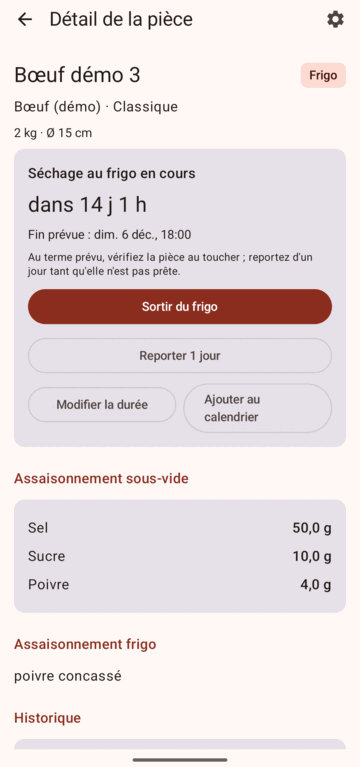
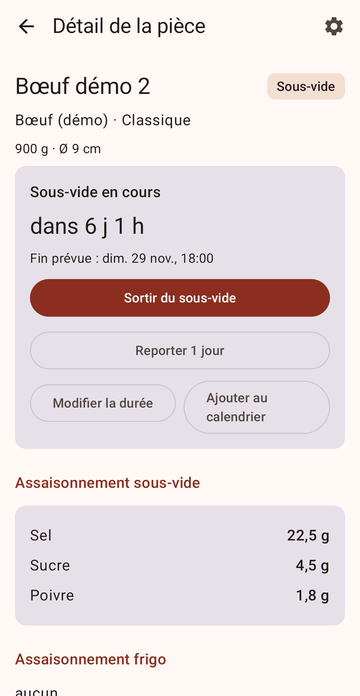
Remove the Calculateur tab and the standalone calculator (#10) (#20)
* docs: intent for removing the Calculateur tab and standalone calculator (#10)

* docs: intent #10 follows the merge of #9

* docs: remove the standalone calculator from requirements and design (#10)

* feat: remove the Calculateur tab and the standalone calculator (#10)

Drops the bottom-bar tab, route, CalculatorScreen and view model (R5 removed).
DosesCard moves to ui/pieces; R4 stays covered on the new-piece screen.

* test: R4 new-piece doses test needs a diameter (#10)

* docs: re-capture README screenshots without the Calculateur tab (#10)

diff --git a/app/src/main/java/me/bataillec/meatmelater/MainActivity.kt b/app/src/main/java/me/bataillec/meatmelater/MainActivity.kt
@@ -12,7 +12,6 @@ import androidx.compose.foundation.layout.padding
 import androidx.compose.material.icons.Icons
 import androidx.compose.material.icons.automirrored.filled.ArrowBack
 import androidx.compose.material.icons.automirrored.filled.MenuBook
-import androidx.compose.material.icons.filled.Calculate
 import androidx.compose.material.icons.filled.Home
 import androidx.compose.material.icons.filled.Insights
 import androidx.compose.material.icons.filled.Settings
@@ -50,7 +49,6 @@ import androidx.navigation.navArgument
 import kotlinx.coroutines.launch
 import me.bataillec.meatmelater.domain.AppSettings
 import me.bataillec.meatmelater.platform.BatteryOnboardingDialog
-import me.bataillec.meatmelater.ui.calculator.CalculatorScreen
 import me.bataillec.meatmelater.ui.pieces.NewPieceScreen
 import me.bataillec.meatmelater.ui.pieces.PieceDetailScreen
 import me.bataillec.meatmelater.ui.pieces.PiecesScreen
@@ -126,7 +124,6 @@ private object Routes {
     const val PIECES = "pieces"
     const val NEW_PIECE = "pieces/new"
     const val PIECE = "pieces/{id}"
-    const val CALCULATOR = "calculator"
     const val RECIPES = "recipes"
     const val RECIPE_EDIT = "recipes/edit/{id}"
     const val STATS = "stats"
@@ -146,7 +143,6 @@ private data class TopLevel(
 private val TOP_LEVEL =
     listOf(
         TopLevel(Routes.PIECES, R.string.nav_pieces, Icons.Filled.Home),
-        TopLevel("calculator", R.string.nav_calculator, Icons.Filled.Calculate),
         TopLevel(Routes.RECIPES, R.string.nav_recipes, Icons.AutoMirrored.Filled.MenuBook),
         TopLevel(Routes.STATS, R.string.nav_stats, Icons.Filled.Insights),
     )
@@ -160,12 +156,7 @@ private fun AppRoot(
     val nav = rememberNavController()
     val backStack by nav.currentBackStackEntryAsState()
     val route = backStack?.destination?.route.orEmpty()
-    val topRoute =
-        TOP_LEVEL.firstOrNull { route.startsWith(it.route) && !route.startsWith(Routes.NEW_PIECE) }?.takeIf {
-            route ==
-                it.route ||
-                route.startsWith("calculator")
-        }
+    val topRoute = TOP_LEVEL.firstOrNull { it.route == route }
 
     LaunchedEffect(pendingPieceId) {
         if (pendingPieceId != null) {
@@ -233,7 +224,6 @@ private fun AppRoot(
                     onGone = { nav.popBackStack(Routes.PIECES, inclusive = false) },
                 )
             }
-            composable(Routes.CALCULATOR) { CalculatorScreen() }
             composable(Routes.RECIPES) { RecipesScreen(onEdit = { nav.navigate(Routes.recipeEdit(it)) }) }
             composable(Routes.RECIPE_EDIT, arguments = listOf(navArgument("id") { type = NavType.LongType })) { entry ->
                 RecipeEditScreen(entry.arguments!!.getLong("id"), onDone = { nav.popBackStack() })
@@ -259,7 +249,6 @@ private fun titleFor(route: String): Int =
     when {
         route.startsWith("pieces/new") -> R.string.new_piece
         route.startsWith("pieces/") -> R.string.piece_detail
-        route.startsWith("calculator") -> R.string.nav_calculator
         route.startsWith("recipes/edit") -> R.string.recipe_edit
         route.startsWith("recipes") -> R.string.nav_recipes
         route.startsWith("stats") -> R.string.nav_stats

diff --git a/app/src/test/java/me/bataillec/meatmelater/ui/UiFlowsTest.kt b/app/src/test/java/me/bataillec/meatmelater/ui/UiFlowsTest.kt
@@ -1,7 +1,6 @@
 package me.bataillec.meatmelater.ui
 
 import androidx.compose.ui.test.ExperimentalTestApi
-import androidx.compose.ui.test.assertCountEquals
 import androidx.compose.ui.test.assertIsDisplayed
 import androidx.compose.ui.test.assertIsNotEnabled
 import androidx.compose.ui.test.getBoundsInRoot
@@ -26,7 +25,6 @@ import me.bataillec.meatmelater.R
 import me.bataillec.meatmelater.domain.AccentColor
 import me.bataillec.meatmelater.domain.PieceStatus
 import me.bataillec.meatmelater.domain.ThemeMode
-import me.bataillec.meatmelater.ui.calculator.CalculatorScreen
 import me.bataillec.meatmelater.ui.pieces.NewPieceScreen
 import me.bataillec.meatmelater.ui.pieces.PieceDetailScreen
 import me.bataillec.meatmelater.ui.pieces.PiecesScreen
@@ -148,14 +146,6 @@ class UiFlowsTest : AppTestBase() {
         awaitUi { created != null }
         val run = runBlocking { container.pieces.getSummary(created!!) }!!.openRun!!
         assertTrue(run.plannedEndAt > clock.millis + 9 * 86_400_000L)
-    }
-
-    @Test
-    fun `R5 piece detail has no open in calculator button`() {
-        val id = createPiece(seedRecipe())
-        show { PieceDetailScreen(id, onGone = {}) }
-        waitForText(string(R.string.leave_vacuum))
-        compose.onAllNodesWithText("Ouvrir dans le calculateur").assertCountEquals(0)
     }
 
     @Ignore(DIALOG_IDLE)
@@ -360,20 +350,23 @@ class UiFlowsTest : AppTestBase() {
     }
 
     @Test
-    fun `R4 R5 calculator computes doses for the selected recipe`() {
+    fun `R4 new piece shows the doses for the typed weight and the selected recipe`() {
+        seedMeat()
         seedRecipe()
-        show { CalculatorScreen() }
+        show { NewPieceScreen(onCreated = {}) }
         waitForText("Classique")
         compose.onNodeWithText(string(R.string.weight)).performTextInput("1,25")
+        compose.onNodeWithText(string(R.string.diameter)).performTextInput("12")
         waitForText(string(R.string.grams_format, "31,3"))
         compose.onNodeWithText(string(R.string.grams_format, "2,5")).assertIsDisplayed() // pepper 2 g/kg * 1.25 kg
     }
 
     @Test
-    fun `R4 calculator with empty weight shows the hint and no crash`() {
+    fun `R4 new piece with empty weight shows the hint and no crash`() {
+        seedMeat()
         seedRecipe()
-        show { CalculatorScreen() }
-        waitForText(string(R.string.calculator_hint))
+        show { NewPieceScreen(onCreated = {}) }
+        waitForText(string(R.string.doses_hint))
     }
 
     private companion object {

diff --git a/app/src/main/java/me/bataillec/meatmelater/ui/pieces/DosesCard.kt b/app/src/main/java/me/bataillec/meatmelater/ui/pieces/DosesCard.kt
@@ -1,0 +1,52 @@
+package me.bataillec.meatmelater.ui.pieces
+
+import androidx.compose.foundation.layout.Column
+import androidx.compose.foundation.layout.fillMaxWidth
+import androidx.compose.foundation.layout.padding
+import androidx.compose.material3.Card
+import androidx.compose.material3.MaterialTheme
+import androidx.compose.material3.Text
+import androidx.compose.runtime.Composable
+import androidx.compose.ui.Modifier
+import androidx.compose.ui.res.stringResource
+import androidx.compose.ui.unit.dp
+import me.bataillec.meatmelater.R
+import me.bataillec.meatmelater.domain.Doses
+import me.bataillec.meatmelater.ui.common.DoseLine
+import me.bataillec.meatmelater.ui.common.RecipeOption
+import me.bataillec.meatmelater.ui.common.fr
+import me.bataillec.meatmelater.ui.common.frFixed
+
+/** R4: doses (g of salt, sugar, pepper) for the weight and recipe chosen on the new-piece screen. */
+@Composable
+fun DosesCard(
+    doses: Doses?,
+    option: RecipeOption?,
+) {
+    Card(Modifier.fillMaxWidth()) {
+        Column(Modifier.padding(16.dp)) {
+            if (doses == null) {
+                Text(stringResource(R.string.doses_hint), style = MaterialTheme.typography.bodyMedium)
+            } else {
+                DoseLine(stringResource(R.string.salt), stringResource(R.string.grams_format, doses.saltG.frFixed()))
+                DoseLine(stringResource(R.string.sugar), stringResource(R.string.grams_format, doses.sugarG.frFixed()))
+                DoseLine(
+                    stringResource(R.string.pepper),
+                    stringResource(R.string.grams_format, doses.pepperG.frFixed()),
+                )
+                option?.let {
+                    Text(
+                        stringResource(
+                            R.string.dose_rates,
+                            it.recipe.saltGPerKg.fr(),
+                            it.recipe.sugarGPerKg.fr(),
+                            it.recipe.pepperGPerKg.fr(),
+                        ),
+                        style = MaterialTheme.typography.bodySmall,
+                        modifier = Modifier.padding(top = 8.dp),
+                    )
+                }
+            }
+        }
+    }
+}

diff --git a/app/src/main/java/me/bataillec/meatmelater/ui/pieces/NewPieceScreen.kt b/app/src/main/java/me/bataillec/meatmelater/ui/pieces/NewPieceScreen.kt
@@ -29,7 +29,6 @@ import me.bataillec.meatmelater.domain.LabelSuggester
 import me.bataillec.meatmelater.domain.PieceFactory
 import me.bataillec.meatmelater.domain.WeightParser
 import me.bataillec.meatmelater.domain.WeightUnit
-import me.bataillec.meatmelater.ui.calculator.DosesCard
 import me.bataillec.meatmelater.ui.common.DecimalField
 import me.bataillec.meatmelater.ui.common.MeatTypePicker
 import me.bataillec.meatmelater.ui.common.RecipePicker
@@ -81,7 +80,7 @@ fun NewPieceScreen(onCreated: (Long) -> Unit) {
         verticalArrangement = Arrangement.spacedBy(12.dp),
     ) {
         if (options.isEmpty()) {
-            Text(stringResource(R.string.calculator_no_recipe), style = MaterialTheme.typography.bodyLarge)
+            Text(stringResource(R.string.no_recipe_hint), style = MaterialTheme.typography.bodyLarge)
         } else {
             RecipePicker(options, option?.recipe?.id, { recipeId = it }, Modifier.fillMaxWidth())
         }

diff --git a/app/src/main/java/me/bataillec/meatmelater/ui/settings/SettingsScreen.kt b/app/src/main/java/me/bataillec/meatmelater/ui/settings/SettingsScreen.kt
@@ -148,7 +148,7 @@ fun SettingsScreen() {
 
         SectionTitle(stringResource(R.string.vacuum_doses))
         if (option == null) {
-            Text(stringResource(R.string.calculator_no_recipe))
+            Text(stringResource(R.string.no_recipe_hint))
         } else {
             RecipePicker(options, option.recipe.id, { recipeId = it }, Modifier.fillMaxWidth())
             RecipeSteppers(option, scope) { updated -> container.recipes.save(updated) }

diff --git a/docs/design.md b/docs/design.md
@@ -73,14 +73,13 @@ VACUUM --finish--> FRIDGE --finish--> DONE
 ## 5. Screens (all French)
 
 1. **Pièces** (home): permission banner, "En retard" section, then running pieces sorted by next deadline; each row = label, the piece's meat/recipe, stage, remaining time. FAB "Nouvelle pièce".
-2. **Nouvelle pièce**: meat type picker (non-archived), recipe picker (names only), weight, diameter → live doses and planned vacuum duration → confirm.
+2. **Nouvelle pièce**: meat type picker (non-archived), recipe picker (names only), weight, diameter → live doses (`DosesCard`, R4) and planned vacuum duration → confirm.
 3. **Détail pièce**: stage-1 doses, stage-2 seasoning (or "aucun"), stage timeline planned vs. actual with postponements and notes, buttons "Sortir du sous-vide / du frigo", "Reporter 1 jour", "Ajouter au calendrier", edit duration, cancel. Leaving the vacuum stage opens a dialog asking for the stage-2 seasoning (prefilled, may be empty).
-4. **Calculateur**: weight + recipe → doses, no piece created. Reached from the bottom bar only: it takes no piece argument (route `calculator`, no `pieceId`) and the piece detail screen has no link to it.
-5. **Recettes**: flat list (no meat grouping); edit form with doses, rule, fridge days (R28: under the divisor and added-days fields, a `bodyMedium` / `onSurfaceVariant` label with the formula and a 6 cm example, built from `StageDurationRule` on the parsed fields; nothing while a field is invalid, a hint when divisor ≤ 0; no fixed height, one `semantics` sentence, not live; the same example string and 6 cm constant are shared with Réglages).
-6. **Statistiques**: averages per recipe/stage, finished pieces.
-7. **Réglages** (R24–R26): four blocks: *Apparence* (Clair / Sombre / OLED / Système), *Dosages au sous-vide* (recipe picker, salt/sugar/pepper g/kg with − / + steppers, note that running pieces keep their doses), *Durée du sous-vide* (divisor, added days, live example with round-up), *Frigo et rappels* (minimum fridge days; reminder time as one row "Heure du rappel" showing `HH:mm`, a single touch target with the spoken label "Heure du rappel, 07:30", opening a Material 3 time picker dialog: 24 h, dial with keyboard toggle, keyboard directly at large font scale, scrollable at 200 % font, title "Choisir l'heure", buttons "Annuler" / "Valider"; "Valider" does one `settings.update` of hour and minute then one `reconcile()`, cancel or dismiss does nothing), and *Types de viande* (add, rename, delete; moved from Recettes). Also permissions status, export/import JSON, about/version.
+4. **Recettes**: flat list (no meat grouping); edit form with doses, rule, fridge days (R28: under the divisor and added-days fields, a `bodyMedium` / `onSurfaceVariant` label with the formula and a 6 cm example, built from `StageDurationRule` on the parsed fields; nothing while a field is invalid, a hint when divisor ≤ 0; no fixed height, one `semantics` sentence, not live; the same example string and 6 cm constant are shared with Réglages).
+5. **Statistiques**: averages per recipe/stage, finished pieces.
+6. **Réglages** (R24–R26): four blocks: *Apparence* (Clair / Sombre / OLED / Système), *Dosages au sous-vide* (recipe picker, salt/sugar/pepper g/kg with − / + steppers, note that running pieces keep their doses), *Durée du sous-vide* (divisor, added days, live example with round-up), *Frigo et rappels* (minimum fridge days; reminder time as one row "Heure du rappel" showing `HH:mm`, a single touch target with the spoken label "Heure du rappel, 07:30", opening a Material 3 time picker dialog: 24 h, dial with keyboard toggle, keyboard directly at large font scale, scrollable at 200 % font, title "Choisir l'heure", buttons "Annuler" / "Valider"; "Valider" does one `settings.update` of hour and minute then one `reconcile()`, cancel or dismiss does nothing), and *Types de viande* (add, rename, delete; moved from Recettes). Also permissions status, export/import JSON, about/version.
 
-Navigation: Navigation-Compose with bottom bar (Pièces, Calculateur, Recettes, Stats); Réglages from the top bar.
+Navigation: Navigation-Compose with bottom bar (Pièces, Recettes, Stats); Réglages from the top bar.
 
 ### Themes (R24)
 
@@ -131,7 +130,7 @@ Navigation: Navigation-Compose with bottom bar (Pièces, Calculateur, Recettes, 
 1. Repo scaffold, `CLAUDE.md`, CI, empty app builds.
 2. Domain: `DosageCalculator`, `StageDurationRule`, state machine + tests.
 3. Data layer: Room, repositories, seed meat types.
-4. Recipes + calculator screens.
+4. Recipes screens.
 5. Pieces: create, list, detail, stage transitions.
 6. Reminders: planner, alarms, receivers, boot, permissions.
 7. Statistics, export/import.

diff --git a/docs/intents/10-remove-calculator-tab.md b/docs/intents/10-remove-calculator-tab.md
@@ -1,0 +1,64 @@
+# Intent — Remove the "Calculateur" tab and the standalone calculator
+
+Status: v0.2 — validated by the owner (2026-11-23); open-question defaults applied. Issue: #10. Extends `docs/intent.md` (v0.3);
+where the two differ, this file wins for the points below once validated. No design or code yet.
+
+## 1. What I want
+
+The bottom navigation bar shows **Pièces, Recettes, Stats** only. The "Calculateur" tab is gone,
+and so is the standalone calculator screen behind it.
+
+## 2. Why
+
+- I never use the tab: I get my doses when I create a piece, and they stay visible on the piece.
+- The tab is the only way into the standalone calculator. Without it the screen would be
+  unreachable, and an orphaned screen is dead code to maintain and test. So the screen goes too.
+
+## 3. Behaviour I expect
+
+1. The bottom bar has three items: Pièces, Recettes, Stats. No screen or route named
+   calculator remains.
+2. Doses are still computed and shown **live when creating a piece** (recipe + weight, R6/R7),
+   and shown on the piece detail screen (snapshotted at creation).
+3. The standalone use case ("compute doses without creating a piece", R5) is **dropped**: to see
+   doses, I start a new piece.
+
+## 4. Scope
+
+In:
+- Remove the tab, the `calculator` route, `CalculatorScreen`, `CalculatorViewModel` and its UI state.
+- **Keep `DosesCard`** (used by the new-piece screen) and `DosageCalculator` (domain, used when a
+  piece is created). `DosesCard` moves next to the new-piece screen.
+- Remove the strings `nav_calculator` and `calculator_hint`; keep the "no recipe" hint still used
+  by the new-piece and settings screens.
+- Remove the two calculator UI tests; R4 (dose maths) stays covered by `DosageCalculatorTest` and
+  gets a new-piece screen test.
+- Drop R5 and reword the "Dosage calculator" wording in `requirements.md`, `design.md`,
+  `intent.md` (§4.1), `assumptions.md`, `README.md` (feature list, layout, calculator screenshot),
+  `CLAUDE.md` and `CHANGELOG.md`.
+
+Out:
+- Any change to dose maths, rounding, durations or reminders.
+- The new-piece and piece-detail dose display, which stay as they are.
+
+## 5. Relation to #9
+
+#9 is merged on `main` (button, `onOpenCalculator` and the `pieceId` prefill are already gone), and
+this branch is rebased on it. #10 therefore only removes what is left: the tab, the `calculator`
+route, `CalculatorScreen`/`CalculatorViewModel`, and R5 altogether. No order constraint remains.
+
+## 6. Success looks like
+
+- The bottom bar shows Pièces, Recettes, Stats only.
+- Creating a piece still shows the right doses live, and the piece keeps its snapshot.
+- No unused string, import, composable or route is left behind; specs and README match the app.
+- `mise run check` passes (lint, unit tests, coverage >= 90 %).
+
+## 7. Open questions (each with a default)
+
+1. Is dropping the standalone calculator (R5) really what I want, rather than keeping it
+   reachable another way (e.g. from Réglages)? Default: drop it entirely.
+2. Rename the string `calculator_no_recipe` (still used elsewhere) to drop the "calculator" prefix?
+   Default: yes, rename.
+3. Delete the calculator screenshot and re-capture the other README screenshots that show the
+   bottom bar? Default: yes, re-capture those showing the bar.

diff --git a/README.md b/README.md
@@ -26,16 +26,15 @@ Everything stays on the phone: no account, no network access, no analytics. The 
 <p align="center">
   <img src="docs/assets/screenshots/pieces.png" alt="Piece list with an overdue piece pinned on top" width="200">
   <img src="docs/assets/screenshots/piece-detail.png" alt="Piece detail with stage actions and snapshotted doses" width="200">
-  <img src="docs/assets/screenshots/calculator.png" alt="Dosage calculator" width="200">
   <img src="docs/assets/screenshots/pieces-dark.png" alt="Piece list in the dark theme" width="200">
 </p>
 
-_Sample data on an emulator. Left to right: piece list (overdue first), piece detail, calculator, dark theme._
+_Sample data on an emulator. Left to right: piece list (overdue first), piece detail, dark theme._
 
 ## Features
 
-- **Dosage calculator**: enter a weight (g or kg) and pick a recipe to get the grams of salt, sugar and pepper
-  (recipes are expressed in g/kg). Works standalone.
+- **Doses**: when you start a piece, enter its weight (g or kg) and pick a recipe to see the grams of salt, sugar
+  and pepper live (recipes are expressed in g/kg); they are kept on the piece.
 - **Recipes and meat types**: beef, pork and duck are pre-seeded; add your own meats (in Settings) and recipes,
   duplicate or archive the recipes. A recipe is independent of the meat: pick both when you start a piece. Fridge seasoning is free text.
 - **Pieces in parallel**: each piece has a label, recipe, weight and diameter. The vacuum duration is computed from
@@ -106,7 +105,7 @@ app/src/main/java/me/bataillec/meatmelater/
   domain/     pure Kotlin: dosage, durations, stage state machine, reminder planning
   data/       Room database, DAOs, settings store, JSON backup
   platform/   alarms, receivers, notifications, permission banner
-  ui/         Jetpack Compose screens (pieces, calculator, recipes, stats, settings, theme)
+  ui/         Jetpack Compose screens (pieces, recipes, stats, settings, theme)
 docs/         intent, requirements, design, decisions, assumptions, device checklist
 scripts/      icon generation and Claude Code hooks
 ```

diff --git a/docs/assumptions.md b/docs/assumptions.md
@@ -11,7 +11,7 @@ reversed; the requirement ids show what it touches.
 | 4 | "Fait" on the notification | For the vacuum stage it moves the piece to the fridge using the recipe's default fridge seasoning (empty if none); the seasoning can be edited afterwards on the piece detail screen. Opening the notification shows the detail screen with the full dialog. | R8, R13 |
 | 5 | Notified state | `AlarmScheduler` remembers, per run, the planned end for which a notification was really posted. An overdue run that was never notified fires immediately after reboot/update/permission grant; a notified one is only shown pinned on the home list (R15). | R12, R14, R15 |
 | 6 | No exact-alarm permission | The app falls back to an inexact Doze-aware alarm and the home banner asks for the permission. The fallback can be late (N5 is only guaranteed with exact alarms). | R16, N5 |
-| 7 | Seed data | Beef, pork and duck meat types are seeded once. No recipes are seeded: dose values are the owner's responsibility (intent.md §7). The calculator and new-piece screens explain how to create a recipe. | R1 |
+| 7 | Seed data | Beef, pork and duck meat types are seeded once. No recipes are seeded: dose values are the owner's responsibility (intent.md §7). The new-piece screen explains how to create a recipe. | R1 |
 | 8 | Recipe duplicate | Duplicating copies all values and appends " (copie)" to the name. | R2 |
 | 9 | Settings steppers | Dosage steppers step by 0.5 g/kg, divisor and added days by 0.5. They edit the chosen recipe directly (new pieces only). The global defaults (minimum fridge days, reminder time) are used when creating a recipe or a stage. | R25, R26 |
 | 10 | Export/import | One JSON file (`format`, `version`, all tables, exact decimal text). Import replaces everything atomically after strict validation (references, ids, statuses vs open runs, positive weights/divisors). Alarms are reset and rebuilt after an import. Settings (theme, reminder time) are not exported. | R21 |

diff --git a/docs/requirements.md b/docs/requirements.md
@@ -20,12 +20,12 @@ Derived from intent.md v0.2. Each requirement has an ID used in tests and PRs.
   A recipe has no meat type: the same recipe can be used for any meat.
 - **R3** A recipe cannot be deleted while pieces use it; it can be archived.
 
-### Dosage calculator
-- **R4** Given a weight (g or kg input) and a recipe, show grams of salt, sugar and pepper.
+### Doses
+- **R4** Given a weight (g or kg input) and a recipe, show grams of salt, sugar and pepper, live on the new-piece screen (R6).
   Formula: `grams = weight_kg × dose_g_per_kg`, rounded to 0.1 g.
   - *Acceptance:* 1.250 kg with salt 25 g/kg → 31.3 g (31.25 rounds half-up). 0 kg or empty → no result, no crash.
-- **R5** The calculator works standalone (no piece created). It is not opened from a piece: the piece detail screen shows the piece's own snapshotted doses (R6), without a shortcut to the calculator.
-  - *Acceptance:* the piece detail screen has no "Ouvrir dans le calculateur" button; the calculator is reached from the bottom bar only.
+- **R5** *(removed, issue #10)* There is no standalone calculator: no bottom-bar tab, no calculator screen or route. Doses are only seen when creating a piece (R4, R6) and on its detail screen (snapshot, R6). The id is not reused.
+  - *Acceptance:* the bottom bar shows Pièces, Recettes, Stats only; no screen or route named calculator exists.
 
 ### Pieces and stages
 - **R6** Creating a piece requires: meat type, recipe, label (auto-suggested from the chosen meat type), weight, diameter in cm.

diff --git a/docs/intent.md b/docs/intent.md
@@ -21,7 +21,7 @@ out on time, or lose track of which seasoning goes with which meat.
 
 ## 4. Features (v1)
 
-1. **Dosage calculator** — given a piece's weight and the recipe's dosage, show grams
+1. **Dosage** — when creating a piece, given its weight and the recipe's dosage, show grams
    of salt, sugar and pepper.
 2. **Vacuum-stage reminder** — notify me when a piece must come out of the vacuum-drying stage.
 3. **Fridge-drying reminder** — notify me when a piece must come out of the fridge-drying stage.

diff --git a/CLAUDE.md b/CLAUDE.md
@@ -1,7 +1,7 @@
 # Meat Me Later — project guide
 
 Android app (Kotlin, Jetpack Compose, Room) to manage dried-meat preparation: dosage
-calculator, stage reminders, tracking. Local only, no account, no network. French UI.
+calculation, stage reminders, tracking. Local only, no account, no network. French UI.
 Specs live in `docs/`: read `intent.md`, then `requirements.md` (R-ids) and `design.md`.
 Decisions taken while building are in `docs/assumptions.md`; the manual release test is `docs/device-checklist.md`.
 
